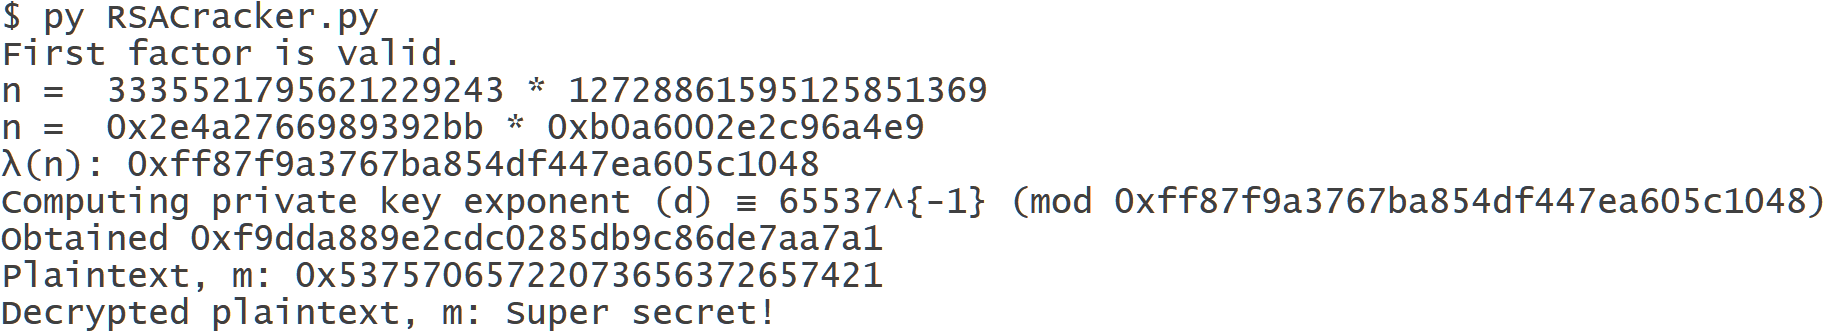
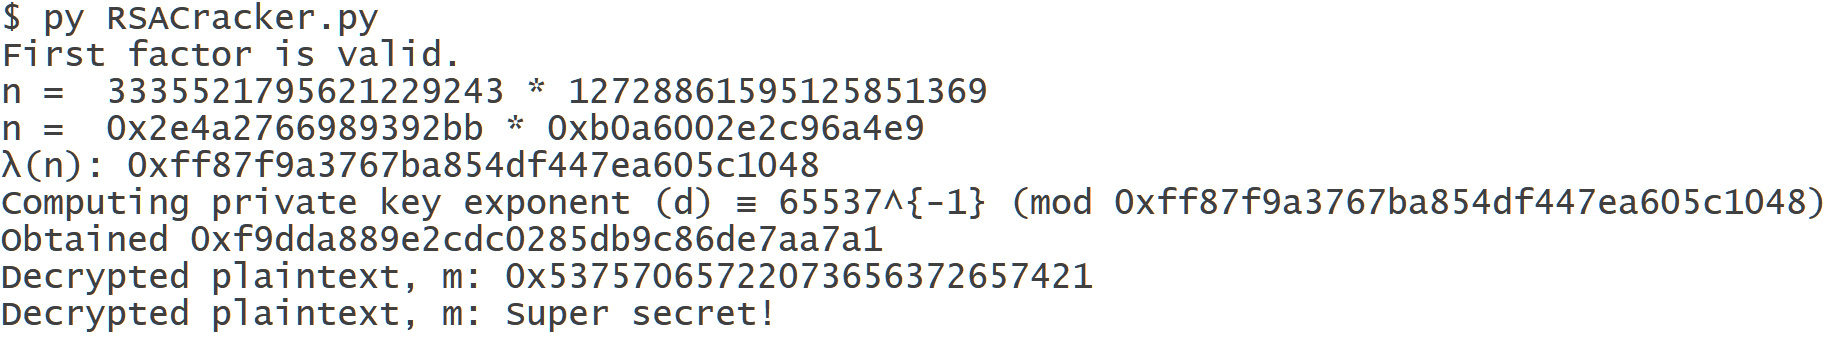
Update documentation-related files

diff --git a/RSACracker.py b/RSACracker.py
@@ -55,7 +55,7 @@ if n % firstFactor == 0:
 	print('Obtained', hex(d))
 	
 	m = pow(c, d, n)
-	print('Plaintext, m:', hex(m))
+	print('Decrypted plaintext, m:', hex(m))
 	print('Decrypted plaintext, m:', binascii.unhexlify(hex(m)[2:]).decode())
 else:
 	print('First factor is invalid, recompute it.')
